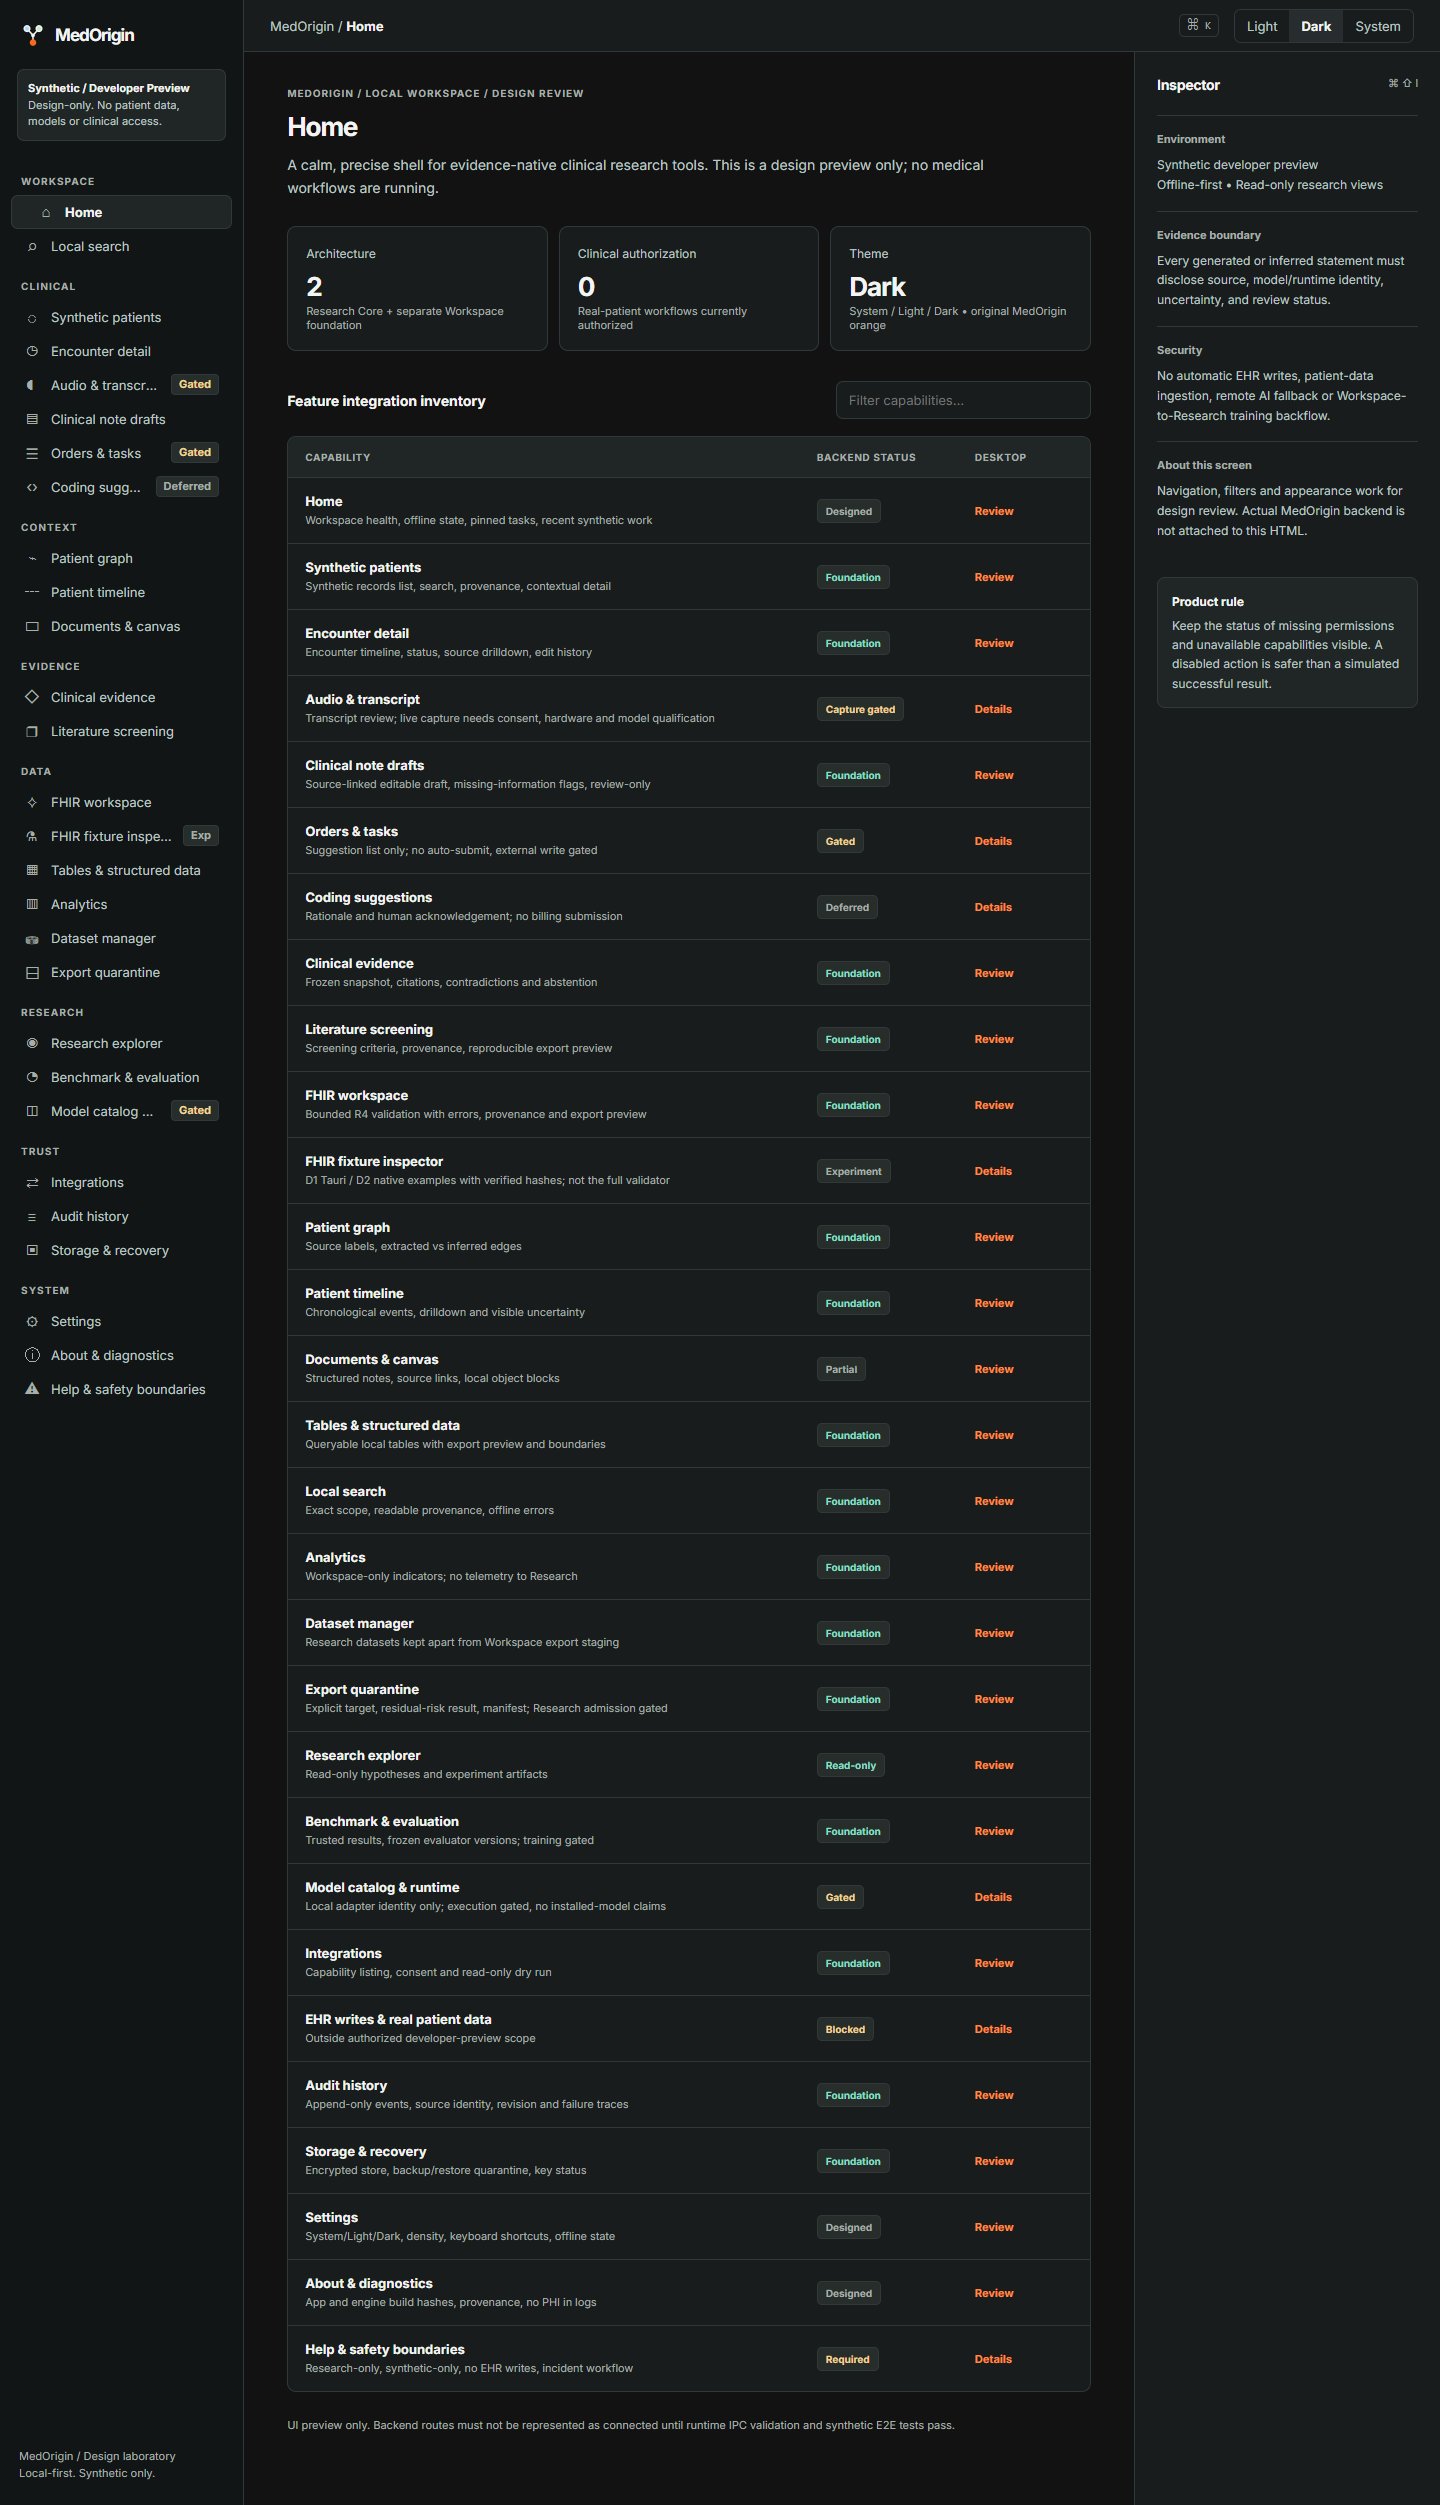
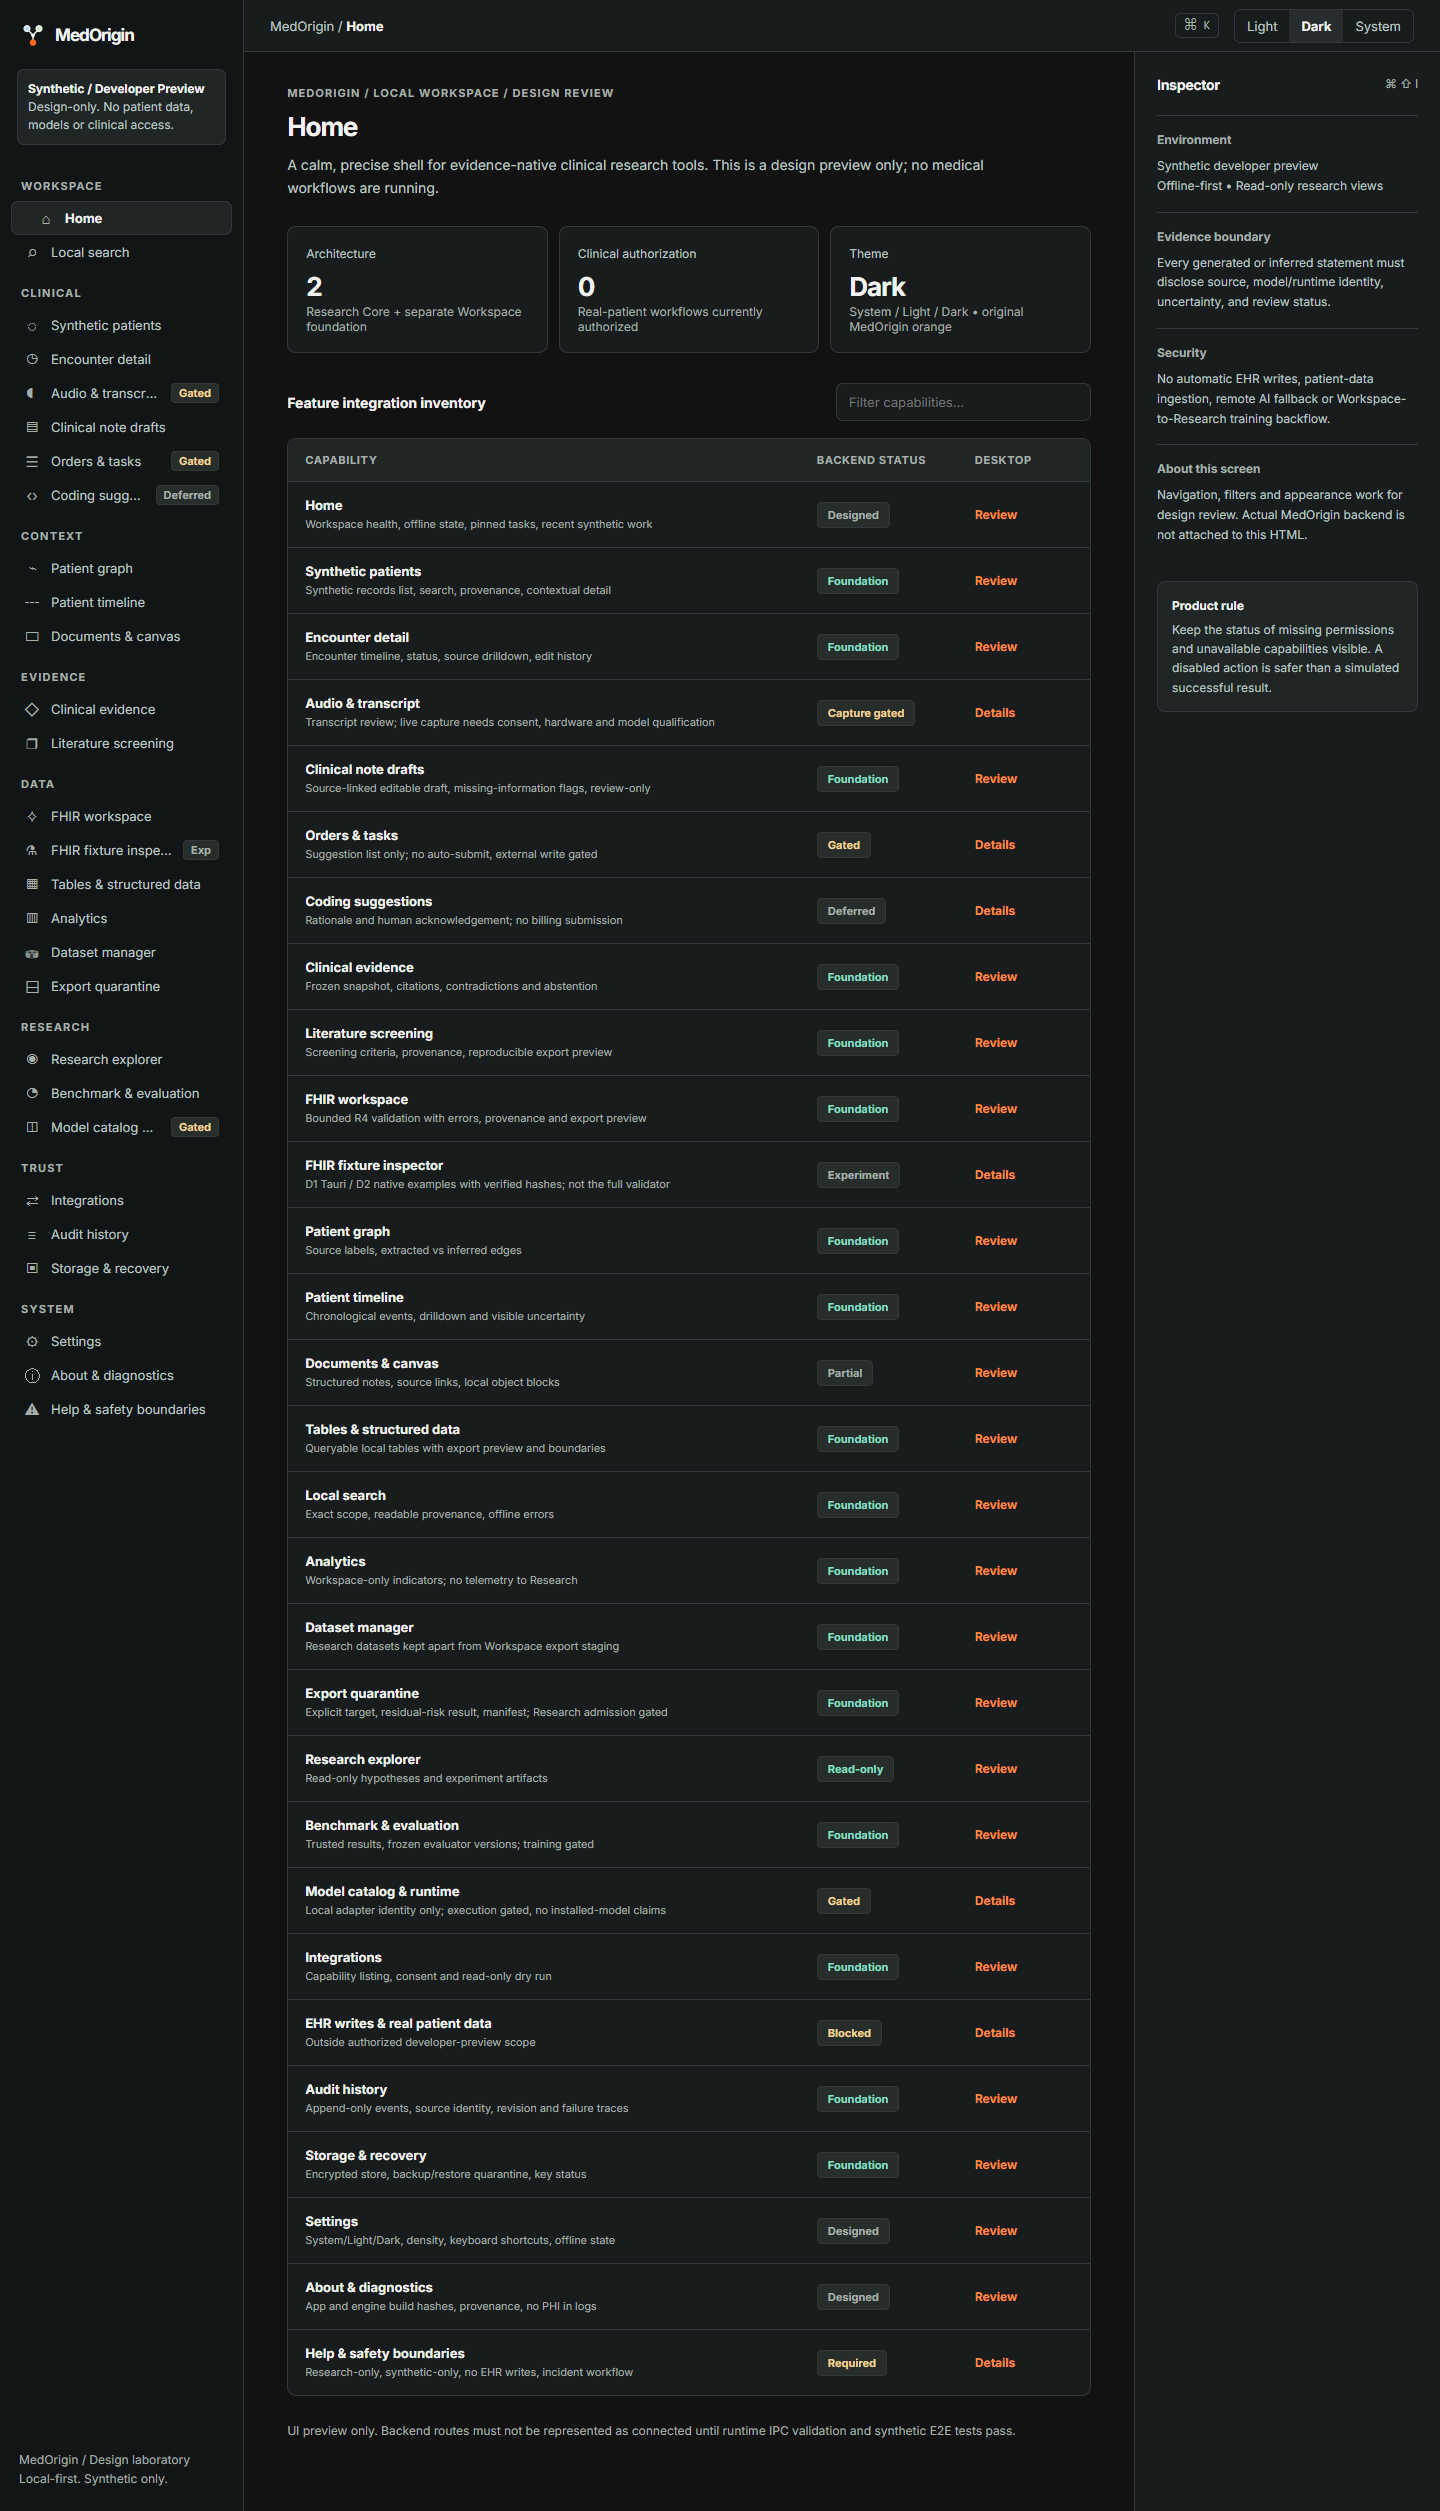
design: raise preview helper text to 11-12px
Uppercase micro-labels (nav groups, eyebrow, table header) and status chips
go to 11px; ribbon, footer, shortcut key, metric captions, links, inspector
labels and notes go to 12px. Mobile chips 9px -> 11px with a wider status
column. Preview and token tests pass; screenshots regenerated.

diff --git a/docs/design/desktop-v1/preview.html b/docs/design/desktop-v1/preview.html
@@ -9,32 +9,32 @@
 button,input{font:inherit}button{cursor:pointer}button:disabled{cursor:not-allowed;opacity:.45}button:focus-visible,input:focus-visible{outline:2px solid var(--mo-focus);outline-offset:2px}button{min-height:38px}
 .shell{display:grid;grid-template-columns:244px minmax(0,1fr);min-height:100vh}.sidebar{background:var(--mo-sidebar);border-right:1px solid var(--mo-border);display:flex;flex-direction:column;padding:14px 11px}
 .brand{display:flex;align-items:center;gap:10px;padding:9px 10px 22px;font-size:17px;font-weight:730;letter-spacing:-.055em}.brand-mark{width:24px;height:24px;flex:none;color:var(--mo-text)}
-.preview-ribbon{border:1px solid var(--mo-border);padding:10px;margin:0 6px 17px;border-radius:7px;color:var(--mo-text-secondary);font-size:11px;line-height:1.5;background:var(--mo-raised)}.preview-ribbon b{color:var(--mo-text);display:block}
-.nav-label{font-size:10px;color:var(--mo-text-muted);font-weight:700;letter-spacing:.11em;text-transform:uppercase;margin:17px 10px 8px}
+.preview-ribbon{border:1px solid var(--mo-border);padding:10px;margin:0 6px 17px;border-radius:7px;color:var(--mo-text-secondary);font-size:12px;line-height:1.5;background:var(--mo-raised)}.preview-ribbon b{color:var(--mo-text);display:block}
+.nav-label{font-size:11px;color:var(--mo-text-muted);font-weight:700;letter-spacing:.11em;text-transform:uppercase;margin:17px 10px 8px}
 .nav-link{display:flex;width:100%;gap:11px;align-items:center;border:1px solid transparent;border-radius:7px;background:transparent;color:var(--mo-text-secondary);text-align:left;padding:0 12px;font-size:13px;height:34px;min-height:34px}.nav-text{flex:1;min-width:0;white-space:nowrap;overflow:hidden;text-overflow:ellipsis}.nav-tag{flex:none;font-size:11px;font-weight:650;line-height:1.3;padding:2px 7px;border-radius:4px;border:1px solid var(--mo-border);color:var(--mo-warning);background:var(--mo-badge)}.nav-tag.off{color:var(--mo-text-muted)}.nav-link:hover{background:var(--mo-hover)}.nav-link[aria-current="page"]{background:var(--mo-raised);border-color:var(--mo-border);color:var(--mo-text);font-weight:650}.nav-link[aria-current="page"]:before{content:"";width:3px;height:17px;border-radius:2px;background:var(--mo-brand)}
 .glyph{width:16px;font-size:15px;display:inline-grid;place-items:center;color:var(--mo-text-muted);font-variant-emoji:text;flex:none}
-.sidebar-bottom{margin-top:auto;padding:20px 8px 8px;color:var(--mo-text-muted);font-size:11px;line-height:1.6}
+.sidebar-bottom{margin-top:auto;padding:20px 8px 8px;color:var(--mo-text-muted);font-size:12px;line-height:1.6}
 .content{display:flex;flex-direction:column;min-width:0}.topbar{height:52px;min-height:52px;display:flex;align-items:center;gap:15px;padding:0 26px;border-bottom:1px solid var(--mo-border);background:var(--mo-surface)}
-.breadcrumb{color:var(--mo-text-secondary);flex:1;white-space:nowrap}.breadcrumbs-strong{color:var(--mo-text);font-weight:650}.key{border:1px solid var(--mo-border);border-radius:5px;padding:4px 7px;font:11px ui-monospace,Consolas,monospace;color:var(--mo-text-muted)}
+.breadcrumb{color:var(--mo-text-secondary);flex:1;white-space:nowrap}.breadcrumbs-strong{color:var(--mo-text);font-weight:650}.key{border:1px solid var(--mo-border);border-radius:5px;padding:4px 8px;font:12px ui-monospace,Consolas,monospace;color:var(--mo-text-muted)}
 .theme-buttons{display:flex;border:1px solid var(--mo-border);border-radius:7px;overflow:hidden}.theme-buttons button{border:0;background:var(--mo-surface);color:var(--mo-text-secondary);padding:0 12px;min-height:32px}.theme-buttons button[aria-pressed="true"]{background:var(--mo-hover);color:var(--mo-text);font-weight:700}
 .main{display:grid;grid-template-columns:minmax(0,1fr) 306px;flex:1;min-height:0}
-.work{padding:32px clamp(22px,3vw,46px) 70px;max-width:1160px;width:100%;margin:auto}.eyebrow{color:var(--mo-text-muted);letter-spacing:.1em;text-transform:uppercase;font-weight:700;font-size:10px}
+.work{padding:32px clamp(22px,3vw,46px) 70px;max-width:1160px;width:100%;margin:auto}.eyebrow{color:var(--mo-text-muted);letter-spacing:.1em;text-transform:uppercase;font-weight:700;font-size:11px}
 .work h1{font-weight:690;font-size:26px;line-height:1.2;letter-spacing:-.045em;margin:11px 0}.sub{font-size:14px;color:var(--mo-text-secondary);line-height:1.65;max-width:710px;margin:0 0 27px}
 .toolbar{display:flex;align-items:center;justify-content:space-between;gap:12px;margin:30px 0 17px}.toolbar h2{font-size:14px;margin:0;font-weight:700}
 .search{width:255px;max-width:100%;min-height:38px;border:1px solid var(--mo-border);border-radius:7px;background:var(--mo-surface);color:var(--mo-text);padding:8px 12px}
 .metrics{display:grid;grid-template-columns:repeat(3,minmax(0,1fr));gap:11px}.metric{border:1px solid var(--mo-border);border-radius:9px;background:var(--mo-surface);padding:18px;min-height:125px}
-.metric .counter{font-size:26px;letter-spacing:-.04em;font-weight:710;margin:10px 0 2px}.metric p{color:var(--mo-text-muted);font-size:11px;margin:0}.metric-title{font-size:12px;color:var(--mo-text-secondary)}
+.metric .counter{font-size:26px;letter-spacing:-.04em;font-weight:710;margin:10px 0 2px}.metric p{color:var(--mo-text-muted);font-size:12px;margin:0}.metric-title{font-size:12px;color:var(--mo-text-secondary)}
 .surface{border:1px solid var(--mo-border);border-radius:9px;background:var(--mo-surface);overflow:hidden}.table-header,.cap-row{display:grid;grid-template-columns:minmax(0,1fr) 145px 98px;align-items:center;gap:13px;padding:14px 17px}
-.table-header{color:var(--mo-text-muted);font-size:10px;text-transform:uppercase;letter-spacing:.06em;background:var(--mo-raised);font-weight:700}
+.table-header{color:var(--mo-text-muted);font-size:11px;text-transform:uppercase;letter-spacing:.06em;background:var(--mo-raised);font-weight:700}
 .cap-row{min-height:66px;border-top:1px solid var(--mo-border)}.cap-row:hover{background:var(--mo-hover)}.cap-row strong{display:block;font-size:13px;font-weight:650}.cap-row small{color:var(--mo-text-muted);display:block;margin-top:5px;line-height:1.35}
-.chip{font-size:10px;font-weight:660;padding:5px 8px;border-radius:5px;background:var(--mo-badge);border:1px solid var(--mo-border);width:max-content;max-width:100%;text-align:center}
+.chip{font-size:11px;font-weight:660;padding:5px 10px;border-radius:5px;background:var(--mo-badge);border:1px solid var(--mo-border);width:max-content;max-width:100%;text-align:center}
 .chip.warn{color:var(--mo-warning)}.chip.ok{color:var(--mo-success)}.chip.off{color:var(--mo-text-muted)}
-.mini-link{color:var(--mo-accent);font-weight:700;font-size:11px;text-decoration:none}
-.inspector{border-left:1px solid var(--mo-border);background:var(--mo-surface);padding:24px 22px}.inspector h2{font-size:14px;letter-spacing:-.02em;margin:0 0 22px}.detail{padding:16px 0;border-top:1px solid var(--mo-border)}.detail strong{display:block;font-size:11px;color:var(--mo-text-muted);font-weight:650;margin-bottom:9px}.detail p{font-size:12px;line-height:1.65;margin:0;color:var(--mo-text-secondary)}.inspector-note{border:1px solid var(--mo-border);padding:14px;border-radius:8px;background:var(--mo-raised);font-size:12px;line-height:1.6;color:var(--mo-text-secondary);margin-top:20px}
+.mini-link{color:var(--mo-accent);font-weight:700;font-size:12px;text-decoration:none}
+.inspector{border-left:1px solid var(--mo-border);background:var(--mo-surface);padding:24px 22px}.inspector h2{font-size:14px;letter-spacing:-.02em;margin:0 0 22px}.detail{padding:16px 0;border-top:1px solid var(--mo-border)}.detail strong{display:block;font-size:12px;color:var(--mo-text-muted);font-weight:650;margin-bottom:9px}.detail p{font-size:12px;line-height:1.65;margin:0;color:var(--mo-text-secondary)}.inspector-note{border:1px solid var(--mo-border);padding:14px;border-radius:8px;background:var(--mo-raised);font-size:12px;line-height:1.6;color:var(--mo-text-secondary);margin-top:20px}
 .inspector-note b{display:block;color:var(--mo-text);margin-bottom:5px}
-.bottom-note{margin-top:25px;font-size:11px;color:var(--mo-text-muted);line-height:1.6}
+.bottom-note{margin-top:25px;font-size:12px;color:var(--mo-text-muted);line-height:1.6}
 @media(max-width:1150px){.main{grid-template-columns:1fr}.inspector{display:none}}
-@media(max-width:720px){.shell{grid-template-columns:65px 1fr}.sidebar{padding:12px 4px}.brand{justify-content:center;padding:10px 2px 22px;font-size:0}.brand-mark{width:28px;height:28px}.preview-ribbon,.nav-label,.nav-text,.nav-tag,.sidebar-bottom{display:none}.nav-link{justify-content:center;padding:0;min-height:45px}.topbar{padding:0 12px}.topbar .key{display:none}.work{padding:23px 16px 60px}.metrics{grid-template-columns:1fr}.metric{min-height:98px}.toolbar{align-items:start;flex-direction:column}.search{width:100%}.table-header,.cap-row{grid-template-columns:minmax(0,1fr) 92px;gap:8px;padding:13px}.table-header span:last-child,.cap-row>a{display:none}.cap-row strong{font-size:12px}.chip{font-size:9px}}
+@media(max-width:720px){.shell{grid-template-columns:65px 1fr}.sidebar{padding:12px 4px}.brand{justify-content:center;padding:10px 2px 22px;font-size:0}.brand-mark{width:28px;height:28px}.preview-ribbon,.nav-label,.nav-text,.nav-tag,.sidebar-bottom{display:none}.nav-link{justify-content:center;padding:0;min-height:45px}.topbar{padding:0 12px}.topbar .key{display:none}.work{padding:23px 16px 60px}.metrics{grid-template-columns:1fr}.metric{min-height:98px}.toolbar{align-items:start;flex-direction:column}.search{width:100%}.table-header,.cap-row{grid-template-columns:minmax(0,1fr) 112px;gap:8px;padding:13px}.table-header span:last-child,.cap-row>a{display:none}.cap-row strong{font-size:12px}.chip{font-size:11px}}
 </style>
 </head>
 <body>
@@ -131,7 +131,7 @@ button,input{font:inherit}button{cursor:pointer}button:disabled{cursor:not-allow
 <div class="bottom-note" id="empty-state">UI preview only. Backend routes must not be represented as connected until runtime IPC validation and synthetic E2E tests pass.</div>
 </main>
 <aside class="inspector" id="detail">
-<h2>Inspector <span style="float:right;color:var(--mo-text-muted);font-weight:400;font-size:11px">⌘ ⇧ I</span></h2>
+<h2>Inspector <span style="float:right;color:var(--mo-text-muted);font-weight:400;font-size:12px">⌘ ⇧ I</span></h2>
 <div class="detail"><strong>Environment</strong><p>Synthetic developer preview<br>Offline-first • Read-only research views</p></div>
 <div class="detail"><strong>Evidence boundary</strong><p>Every generated or inferred statement must disclose source, model/runtime identity, uncertainty, and review status.</p></div>
 <div class="detail"><strong>Security</strong><p>No automatic EHR writes, patient-data ingestion, remote AI fallback or Workspace-to-Research training backflow.</p></div>
